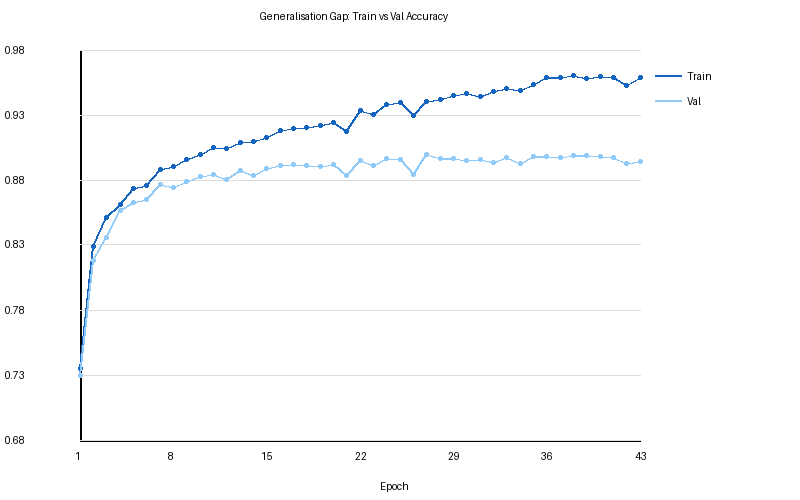
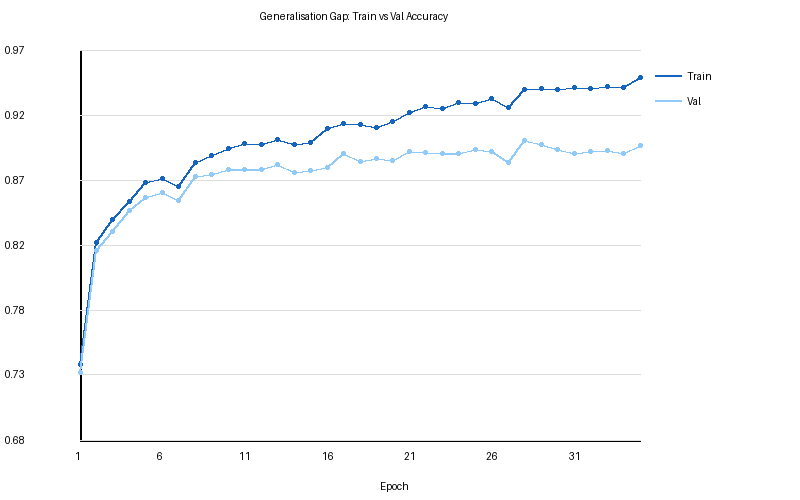
task2 results

diff --git a/task2/task.py b/task2/task.py
@@ -334,7 +334,7 @@ def print_report(history, clean_acc, noisy_acc, sigma):
   Noisy Test Acc (sigma={sigma}): {noisy_acc:.4f}
   Robustness Drop:          {clean_acc - noisy_acc:.4f}
 
-=== Technical Analysis (~500 words) ===
+=== Technical Analysis ===
 
 1. Why MixUp Prevents Memorisation
 
